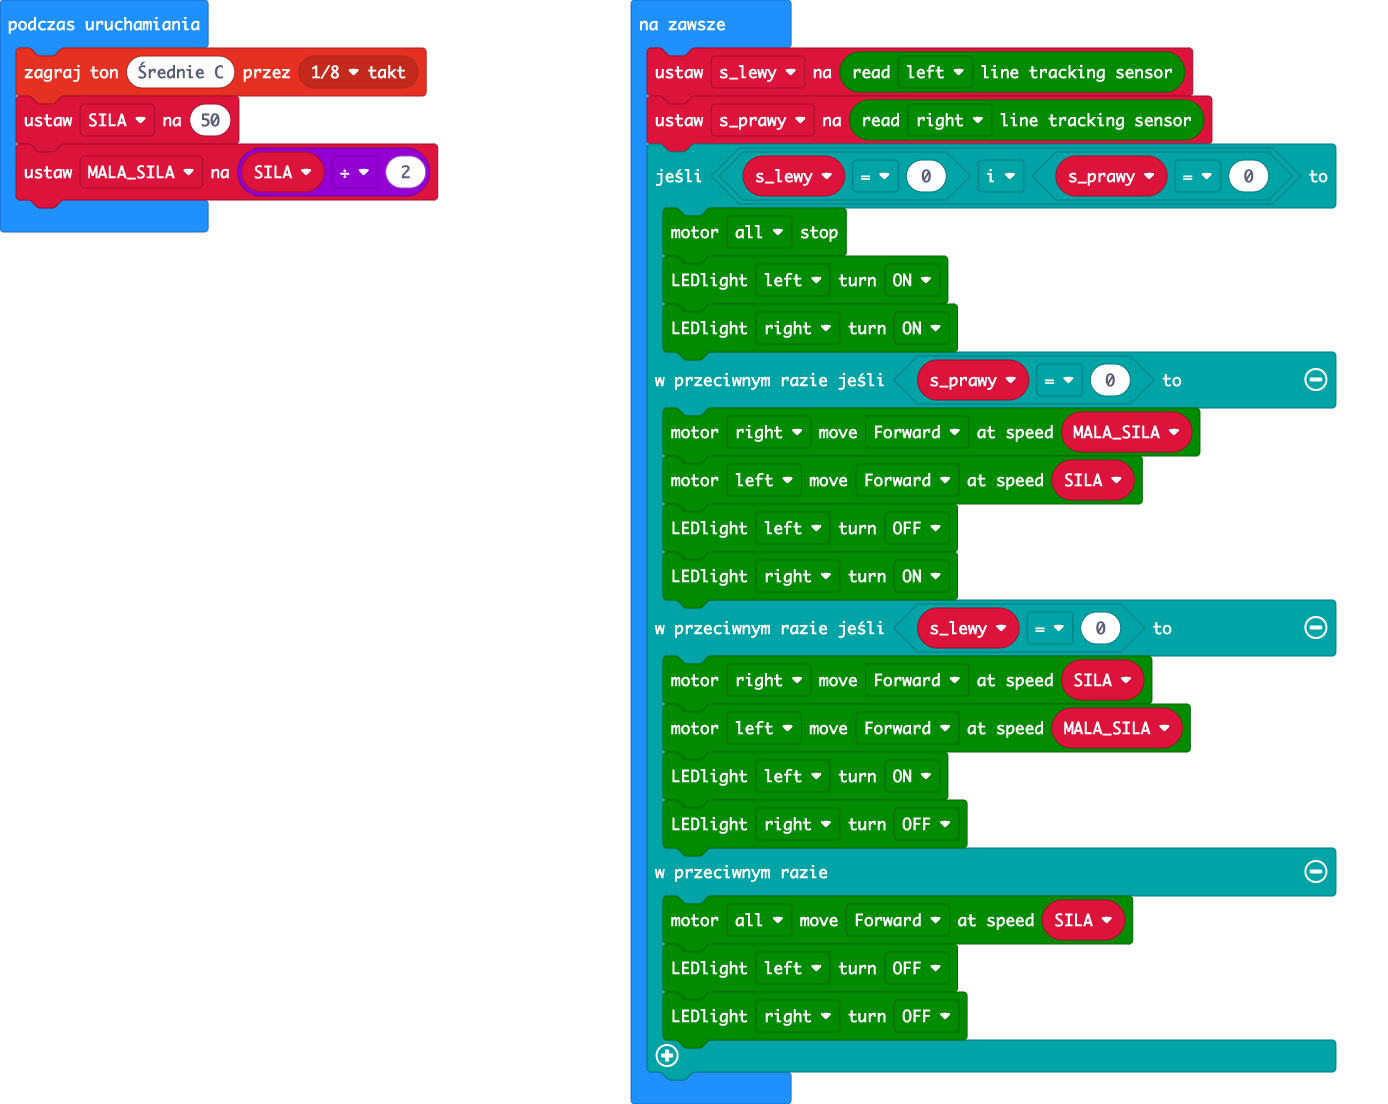
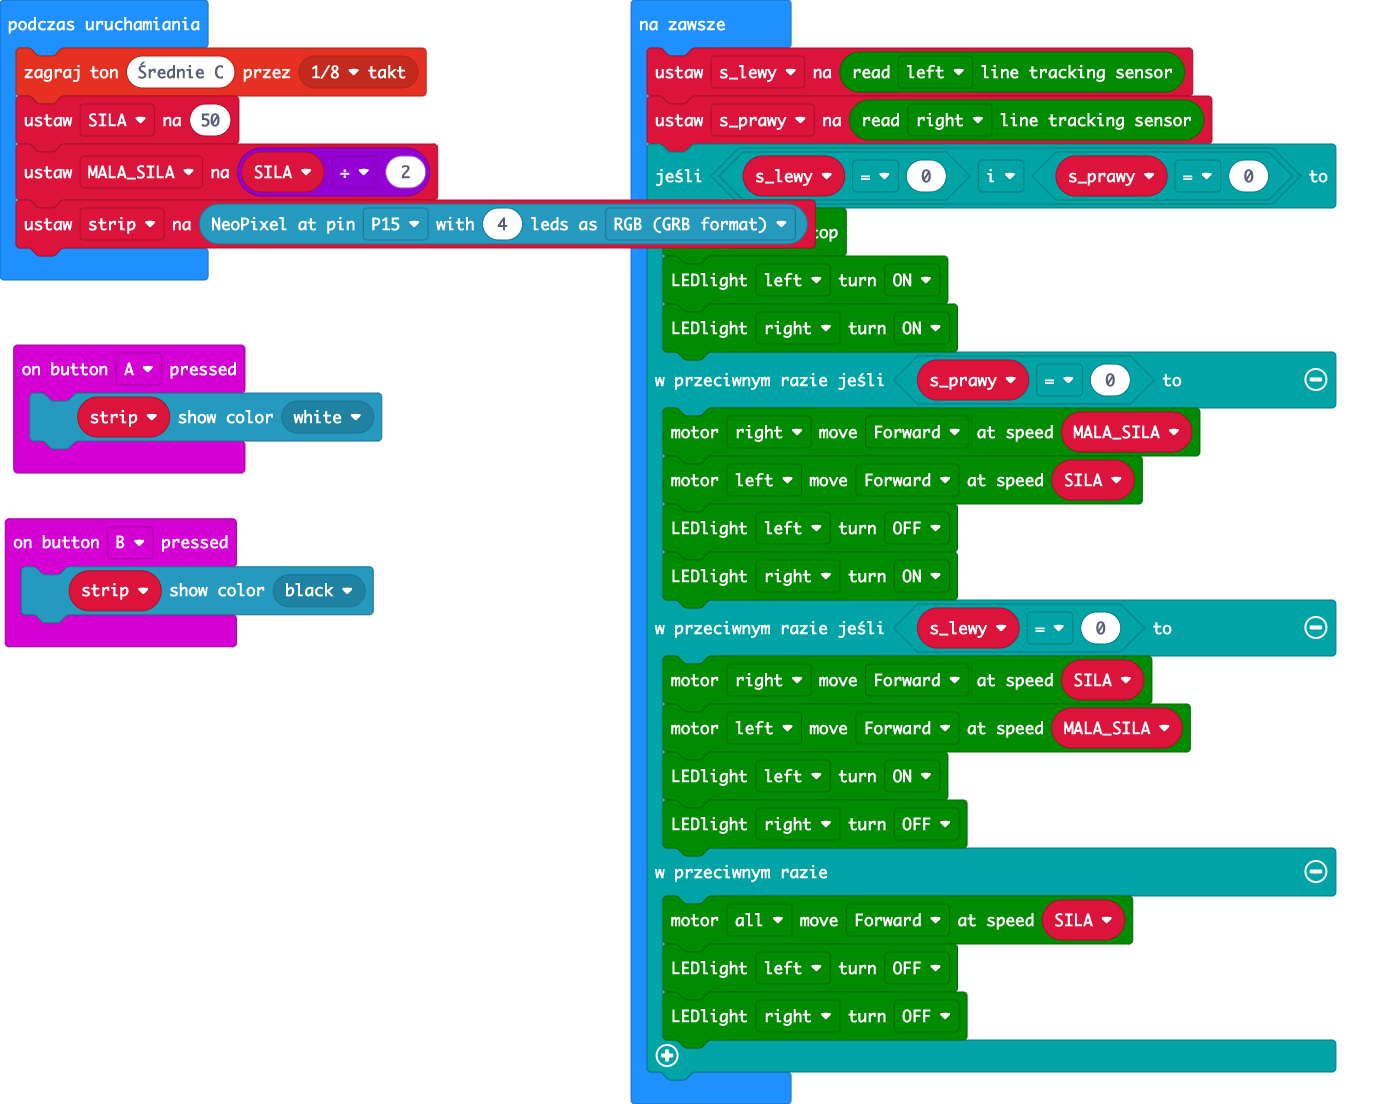
Aktualizacja pxt.json, main.blocks, main.ts

Changed region(s): [[0.0, 0.154, 0.5886, 0.2772], [0.0, 0.462, 0.2788, 0.5851], [0.0, 0.308, 0.2788, 0.4312]]

diff --git a/main.ts b/main.ts
@@ -1,8 +1,16 @@
+input.onButtonPressed(Button.A, function () {
+    strip.showColor(neopixel.colors(NeoPixelColors.White))
+})
+input.onButtonPressed(Button.B, function () {
+    strip.showColor(neopixel.colors(NeoPixelColors.Black))
+})
 let s_prawy = 0
 let s_lewy = 0
+let strip: neopixel.Strip = null
 music.playTone(262, music.beat(BeatFraction.Eighth))
 let SILA = 50
 let MALA_SILA = SILA / 2
+strip = neopixel.create(DigitalPin.P15, 4, NeoPixelMode.RGB)
 basic.forever(function () {
     s_lewy = maqueen.readPatrol(maqueen.Patrol.PatrolLeft)
     s_prawy = maqueen.readPatrol(maqueen.Patrol.PatrolRight)
